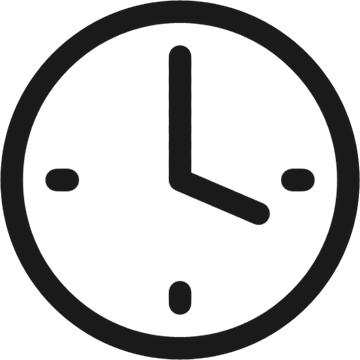
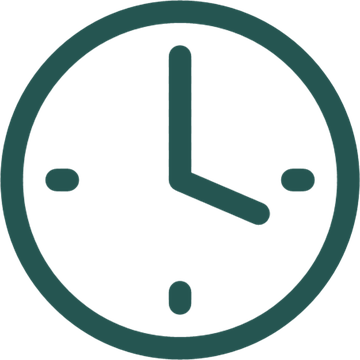
Set the Task Nest clock in forest, 20% larger
The clock is redrawn in #255551, the green the page headings use, instead of
near-black, and goes from 52% to 62% of the tile's height.

diff --git a/site.css b/site.css
@@ -220,7 +220,7 @@ a { color: inherit; }
 /* Task Nest carries a clock on a pale green ground, the same green the repo
    pill uses. The mark is sized off the tile's height so it stays centred. */
 .project-thumb.card-2 {
-  background: #DDE7DC url("assets/task-nest.png") center / auto 52% no-repeat;
+  background: #DDE7DC url("assets/task-nest.png") center / auto 62% no-repeat;
 }
 .card-2 { background: var(--card-2); color: var(--card-2-ink); }
 .card-3 { background: var(--card-3); color: var(--card-3-ink); }
